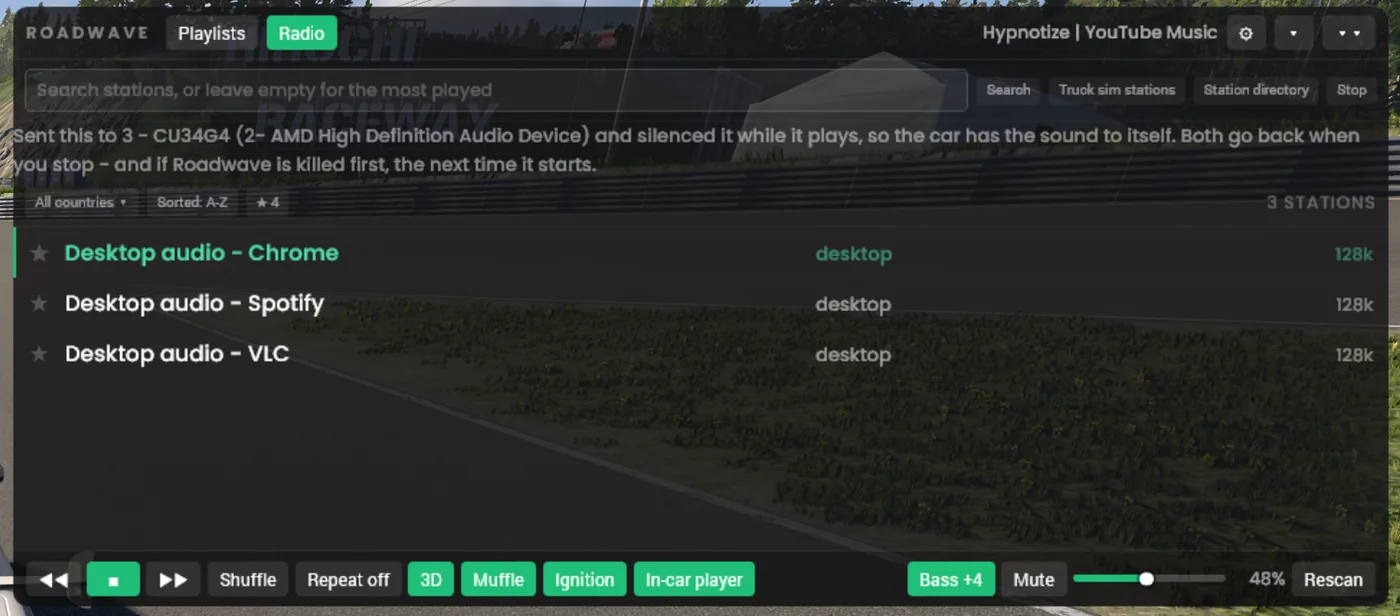
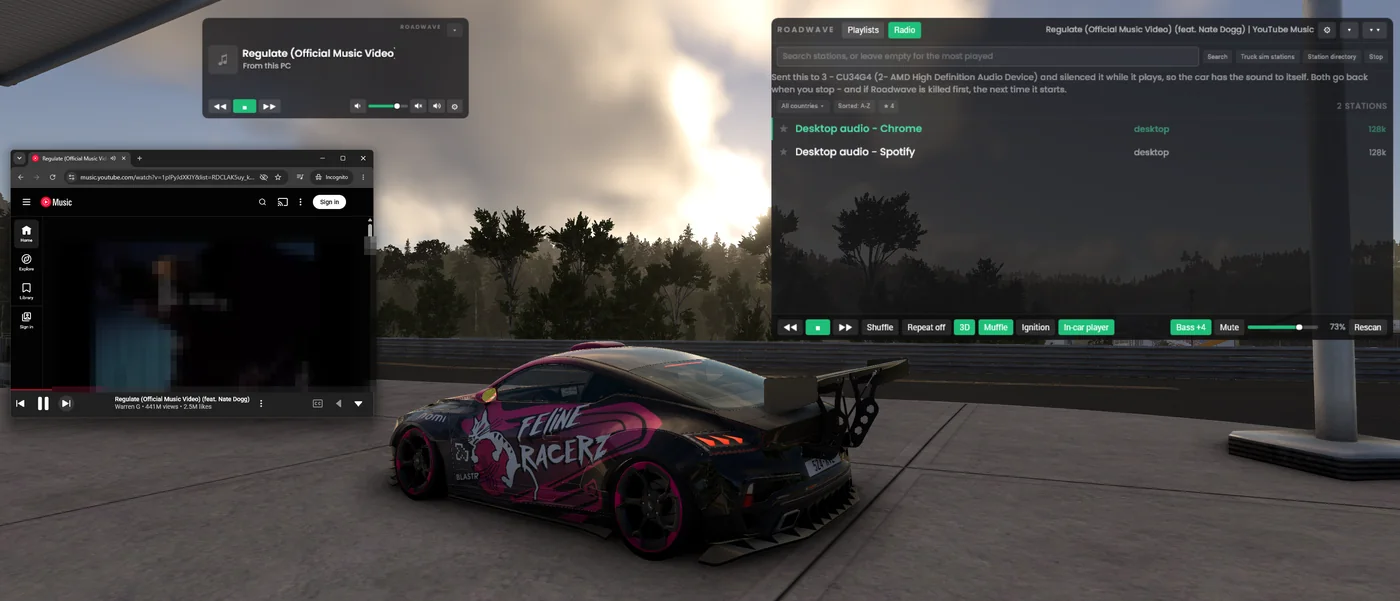
Add files via upload
New desktop-audio screenshots, cleaner in-car shot

diff --git a/index.html b/index.html
@@ -129,7 +129,9 @@ a:focus-visible,summary:focus-visible{outline:2px solid var(--accent);outline-of
       <a class="btn ghost" href="#what">See what it does</a>
     </div>
     <p class="price"><b>From $6, once.</b> Pay more than that if you want to; nothing changes if you do
-      not. No licence key, no activation, no phone-home. Windows only.</p>
+      not. No licence key, no activation, no phone-home. Windows only.<br>
+      On Ko-fi by default — <a href="buy.html?store=patreon">buy it on Patreon instead</a> if that suits you
+      better. Same file either way.</p>
     <div class="requires">
       <b>Requires the free Roadwave mod</b>, which is free, complete, and stays that way —
       Advanced changes nothing about it.
@@ -169,8 +171,12 @@ a:focus-visible,summary:focus-visible{outline:2px solid var(--accent);outline-of
         <figcaption>The button, and what it says it does.</figcaption>
       </figure>
       <figure>
-        <img src="img/desktop-audio-list.webp" alt="The desktop audio source list showing Chrome, Spotify and VLC, with the line explaining what Roadwave changed" loading="lazy" width="1400" height="616">
-        <figcaption>Pick a source. The line underneath says what Roadwave did to your sound — and that it puts it back.</figcaption>
+        <img src="img/desktop-audio-list.webp" alt="The desktop audio source list showing Chrome and Spotify, with the line explaining what Roadwave changed and that it puts it back" loading="lazy" width="1400" height="601">
+        <figcaption>Pick a source. The line underneath says what Roadwave did to your sound — and that it puts it back when you stop.</figcaption>
+      </figure>
+      <figure>
+        <img src="img/desktop-audio-proof.webp" alt="A browser playing a track on one side and the Roadwave bar in the game showing the same track on the other" loading="lazy" width="1400" height="596">
+        <figcaption>The browser on the left, the game on the right, the same track in both. That is the whole feature in one screenshot.</figcaption>
       </figure>
     </div>
 
@@ -198,6 +204,10 @@ a:focus-visible,summary:focus-visible{outline:2px solid var(--accent);outline-of
         <figcaption>A row it is not sure about opens its candidates, so you decide instead of it guessing.</figcaption>
       </figure>
     </div>
+    <p style="color:var(--dim);border-top:1px solid var(--line);padding-top:26px;margin-top:8px">
+      There is a longer walkthrough on YouTube showing the internet radio and the playlist builder in use:
+      <a href="https://www.youtube.com/watch?v=RdbgClP6SwY">Roadwave — full walkthrough</a>.
+      It was recorded before desktop audio existed, so <b>This PC</b> is not in it.</p>
   </div>
 </section>
 
@@ -223,8 +233,8 @@ a:focus-visible,summary:focus-visible{outline:2px solid var(--accent);outline-of
     <h2>What you already have, free</h2>
     <p class="sub">Advanced sits on top of this. None of it is behind a payment, and none of it ever will be.</p>
     <figure style="margin:0 0 26px">
-      <img src="img/in-car.webp" alt="The Roadwave screen inside the car cabin while driving, with the browser app open beside it" loading="lazy" width="1400" height="630">
-      <figcaption style="color:#75808e;font-size:13.5px;margin-top:9px">The player is a screen in the cabin, not an overlay. It sits where you put it, in every car.</figcaption>
+      <img src="img/in-car.webp" alt="The Roadwave player as a screen on the windscreen of a car being driven, showing the track and transport controls" loading="lazy" width="1400" height="759">
+      <figcaption style="color:#75808e;font-size:13.5px;margin-top:9px">The player is a screen in the cabin, not an overlay. It sits where you put it, in every car — and here it happens to be playing the PC's own sound.</figcaption>
     </figure>
     <figure style="margin:0 0 30px">
       <img src="img/spatial-audio.webp" alt="Chart showing the music falling to 33% at 6 metres, 10% at 20 metres and 3% at 60 metres as you walk away from the car" loading="lazy" width="1200" height="620">
